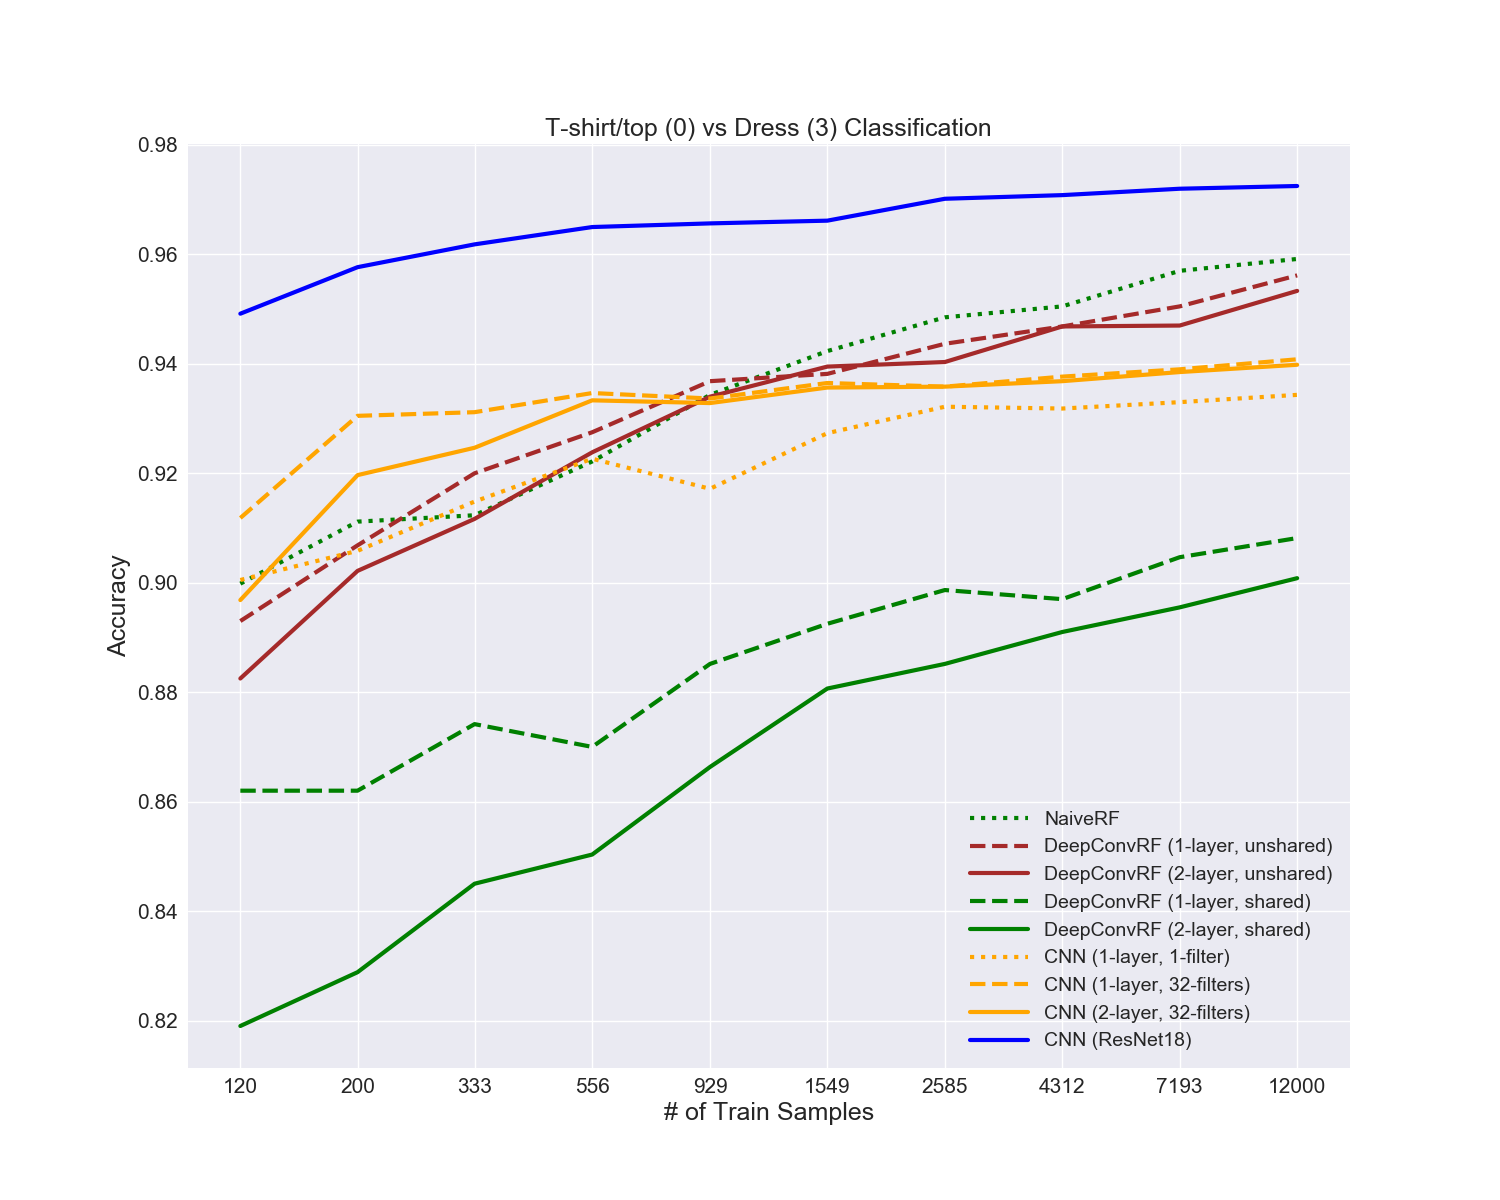
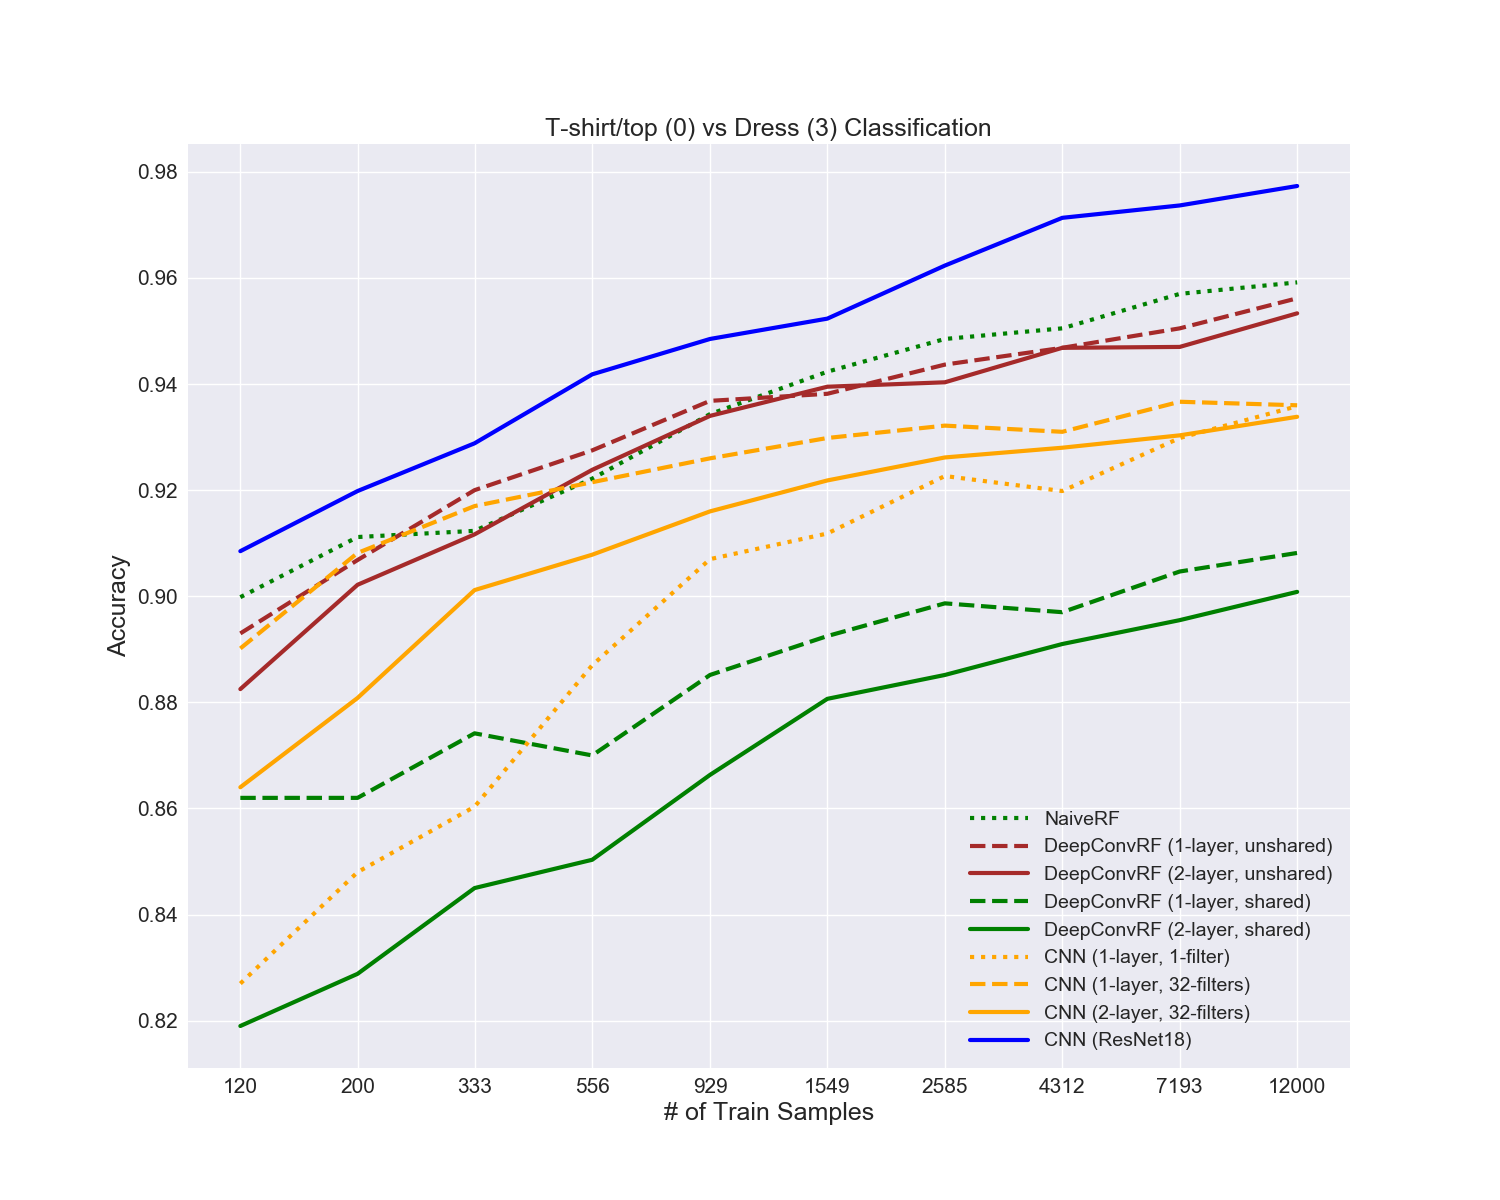
Update fashion mnist 0vs3

diff --git a/experiments/run.py b/experiments/run.py
@@ -36,25 +36,25 @@ warnings.filterwarnings("ignore")
 # CHOOSEN_CLASSES = [5, 7]
 # MAX_TRAIN_FRACTION = 1.0
 
-####### SVHN ########
-DATASET_NAME = "SVHN"
-TITLE = "0 vs 9"
-
-DATA_PATH = "./data"
-RESULTS_PATH = "results/svhn/0vs9/"
-
-CHOOSEN_CLASSES = [0, 9]
-MAX_TRAIN_FRACTION = 1.0
-
-# ####### FashionMNIST ########
-# DATASET_NAME = "FashionMNIST"
-# # TITLE = "T-shirt/top (0) vs Dress (3)"
+# ####### SVHN ########
+# DATASET_NAME = "SVHN"
+# TITLE = "0 vs 9"
 #
 # DATA_PATH = "./data"
-# RESULTS_PATH = "results/fashion_mnist/0vs3/"
+# RESULTS_PATH = "results/svhn/0vs9/"
 #
-# CHOOSEN_CLASSES = [0, 3]
+# CHOOSEN_CLASSES = [0, 9]
 # MAX_TRAIN_FRACTION = 1.0
+
+####### FashionMNIST ########
+DATASET_NAME = "FashionMNIST"
+TITLE = "T-shirt/top (0) vs Dress (3)"
+
+DATA_PATH = "./data"
+RESULTS_PATH = "results/fashion_mnist/0vs3/"
+
+CHOOSEN_CLASSES = [0, 3]
+MAX_TRAIN_FRACTION = 1.0
 
 
 N_TRIALS = 3
